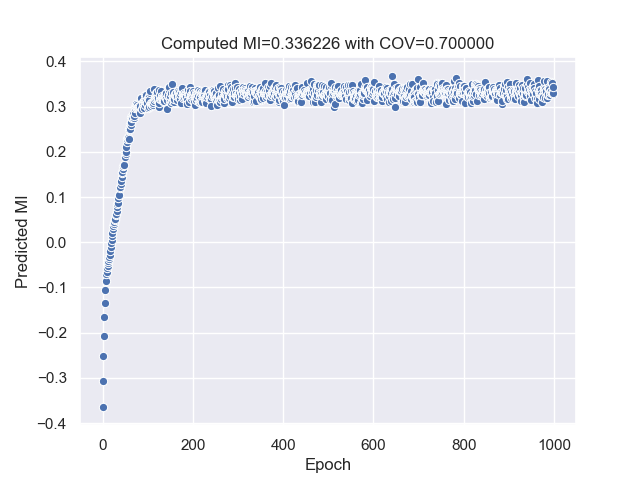
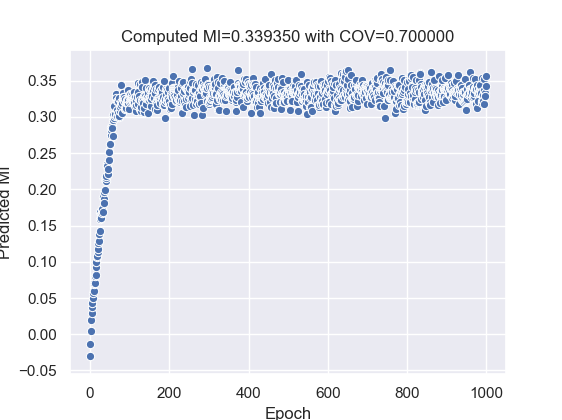
MINE instance with selectable loss function

diff --git a/mine.py b/mine.py
@@ -1,0 +1,140 @@
+from __future__ import absolute_import
+from __future__ import division
+from __future__ import print_function
+import torch
+import torch.nn as nn
+import torch.nn.functional as F
+from tqdm import tqdm
+from scipy.stats.contingency import margins
+import numpy as np
+import matplotlib.pyplot as plt
+import seaborn as sns
+import argparse
+
+def sample(joint=True,
+           mean=[0, 0],
+           cov=[[1, 0.9], [0.9, 1]],
+           n_data=1000000):
+    xy = np.random.multivariate_normal(mean=mean,
+                                       cov=cov,
+                                       size=n_data)
+    if joint:
+        return xy 
+    y = np.random.multivariate_normal(mean=mean,
+                                      cov=cov,
+                                      size=n_data)
+    x = xy[:,0].reshape(-1,1)
+    y = y[:,1].reshape(-1,1)
+   
+    xy = np.concatenate([x, y], axis=1)
+    return xy
+
+def compute_mi(cov_xy=0.9, n_bins=100):
+    cov=[[1, cov_xy], [cov_xy, 1]]
+    data = sample(cov=cov)
+    joint, edge = np.histogramdd(data, bins=n_bins)
+    joint /= joint.sum()
+    eps = np.finfo(float).eps
+    joint[joint<eps] = eps
+    x, y = margins(joint)
+    xy = x*y
+    xy[xy<eps] = eps
+    mi = joint*np.log(joint/xy)
+    mi = mi.sum()
+    print("Computed MI:", mi)
+    return mi
+
+
+class Mine1(nn.Module):
+    def __init__(self, hidden_units=10):
+        super(Mine1, self).__init__()
+        self.fc1 = nn.Linear(1, hidden_units)
+        self.fc2 = nn.Linear(1, hidden_units)
+        self.fc3 = nn.Linear(hidden_units, 1)
+
+    def forward(self, x, y):
+        x = F.relu(self.fc1(x) + self.fc2(y))
+        x = self.fc3(x)
+        return x
+
+def train_mine(cov_xy=0.9, device='cpu', loss_func=1):
+    model = Mine1().to(device)
+    optimizer = torch.optim.Adam(model.parameters(), lr=0.01)
+    plot_loss = []
+    n_samples = 10000
+    n_epoch = 1000
+    cov=[[1, cov_xy], [cov_xy, 1]]
+    pred_x_y = np.empty(n_epoch, dtype=object)
+    for epoch in tqdm(range(n_epoch)):
+        xy = sample(n_data=n_samples, cov=cov)
+        x1 = xy[:,0].reshape(-1,1)
+        y1 = xy[:,1].reshape(-1,1)
+        xy = sample(joint=False, n_data=n_samples, cov=cov)
+        x2 = xy[:,0].reshape(-1,1)
+        y2 = xy[:,1].reshape(-1,1)
+    
+        x1 = torch.from_numpy(x1).to(device)
+        y1 = torch.from_numpy(y1).to(device)
+        x2 = torch.from_numpy(x2).to(device)
+        y2 = torch.from_numpy(y2).to(device)
+        x1 = x1.type(torch.FloatTensor)
+        y1 = y1.type(torch.FloatTensor)
+        x2 = x2.type(torch.FloatTensor)
+        y2 = y2.type(torch.FloatTensor)
+
+        pred_xy = model(x1, y1)
+		
+        pred_x_y = model(x2, y2)
+        if loss_func==2:
+           ret= 1+torch.mean(pred_xy) - torch.mean(torch.exp(pred_x_y)) #f-divergence
+        else:
+           ret= torch.mean(pred_xy) -torch.log(torch.mean(torch.exp(pred_x_y))) #dv
+		   
+        loss = -ret #maximize
+        plot_loss.append(loss.data.numpy())
+        optimizer.zero_grad()
+        loss.backward(retain_graph=True)
+        optimizer.step()
+
+    x = np.arange(len(plot_loss))
+    y = np.array(plot_loss).reshape(-1,)
+    sns.set()
+    sns.scatterplot(x=x, y=-y)
+    func=" "
+    if loss_func==2:
+        func="F-Divergence"
+    else:
+	    func="Donsker-Varadhan"
+    plt.xlabel('Epoch')
+    plt.ylabel('Predicted MI')
+    plt.title('Computed MI=%f with COV=%f Loss Function = %s' % (compute_mi(cov_xy=args.covariance),args.covariance,func))
+    plt.show()
+
+
+if __name__ == '__main__':
+    parser = argparse.ArgumentParser(description='MI on 2D Gaussian')
+    parser.add_argument('--covariance',
+                        type=float,
+                        default=0.9,
+                        help='gaussian off diagonal element')
+    parser.add_argument('--no-gpu',
+                        action='store_true',
+                        default=False,
+                        help='disables GPU training')
+    parser.add_argument('--loss-func',
+                        type=int,
+                        default=1,
+                        help='Set loss function to [1]DV, [2]F-Divergence')						
+						
+    args = parser.parse_args()
+    loss_func=args.loss_func
+    use_cuda = not args.no_gpu and torch.cuda.is_available()
+    device = torch.device("cuda" if use_cuda else "cpu")
+    if loss_func==2:
+	    print("Loss Function: F-Divergence")
+    else:
+	    print("Loss Function: Donsker-Varadhan")
+    print("Device: ", device)
+    print("Covariace off diagonal:", args.covariance)
+    compute_mi(cov_xy=args.covariance)
+    train_mine(cov_xy=args.covariance,device=device,loss_func=loss_func)
